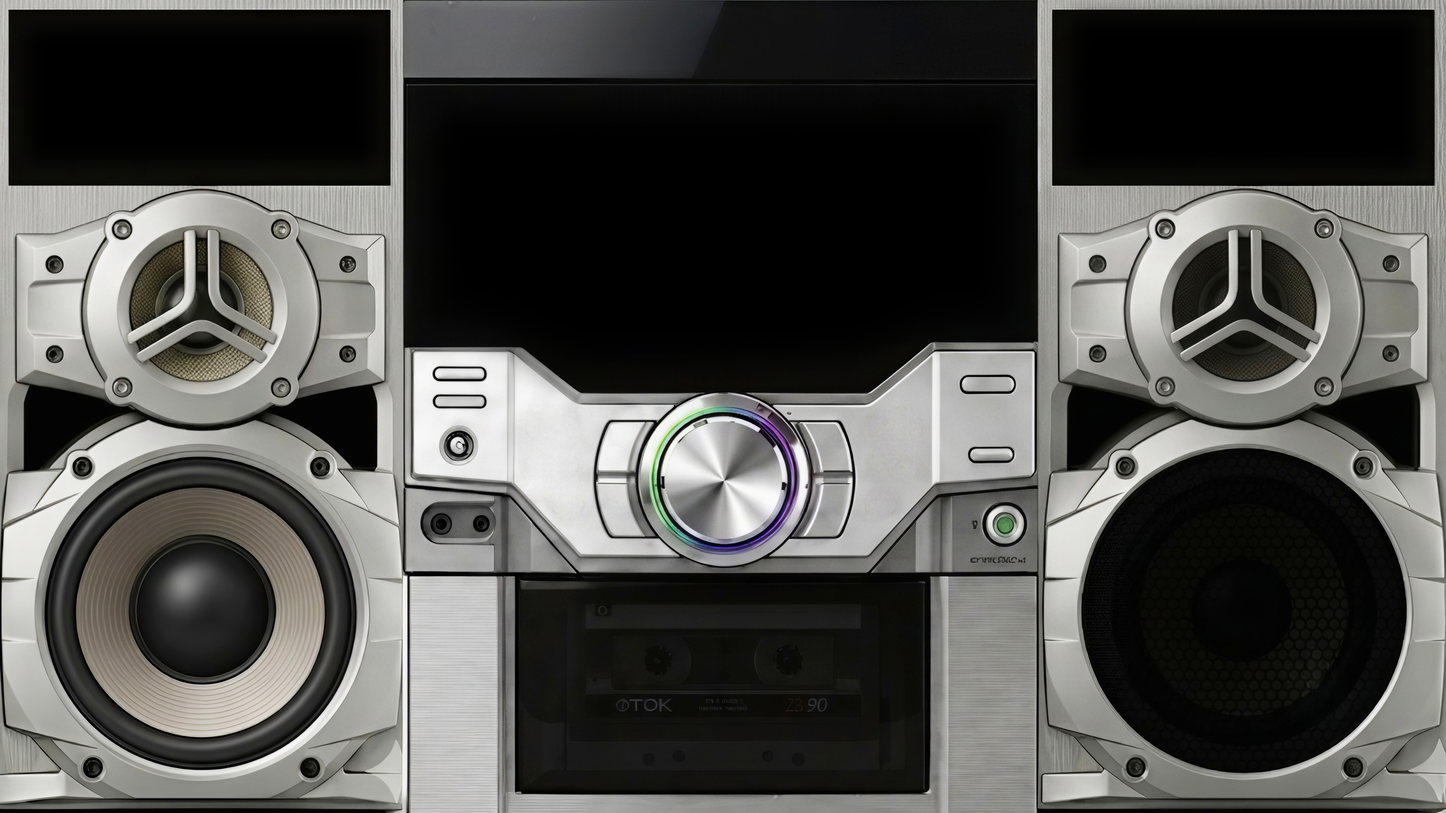
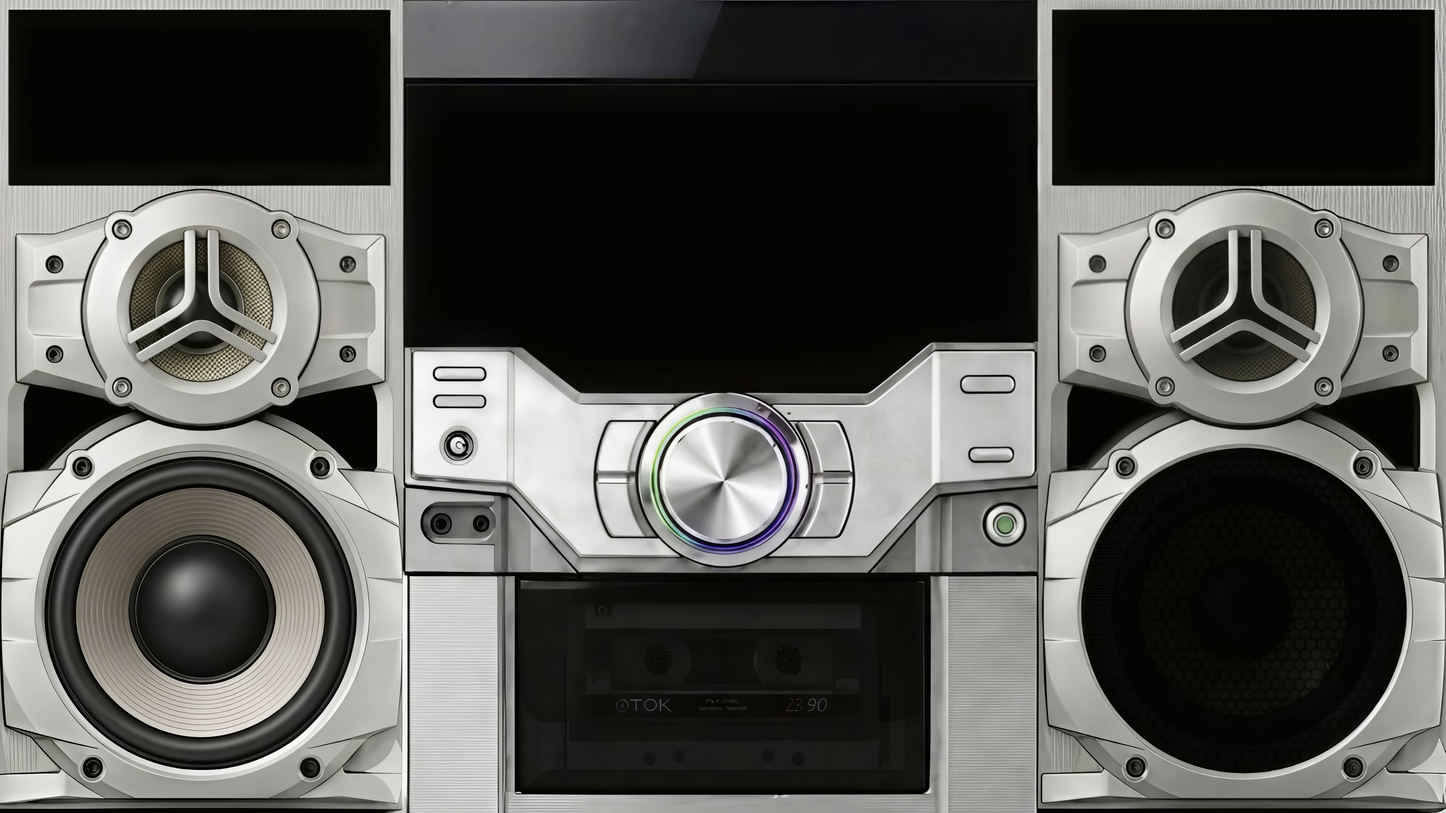
Refine transport buttons with SVG clip-path chassis shapes and directional tactile press

diff --git a/player.html b/player.html
@@ -650,11 +650,17 @@
 
     .transport-btn-area {
       position: absolute;
-      cursor: pointer;
       border-radius: 4px;
       display: flex;
       align-items: center;
       justify-content: center;
+
+      /* Tactile button properties: raised look by default */
+      cursor: pointer !important;
+      user-select: none !important;
+      transition: transform 0.05s ease, box-shadow 0.05s ease, background-color 0.1s ease !important;
+      box-shadow: 0 3px 0 rgba(0, 0, 0, 0.6), inset 0 1px 1px rgba(255, 255, 255, 0.25) !important;
+      border: 1px solid rgba(0, 0, 0, 0.8) !important;
     }
 
     .transport-btn-area span {
@@ -675,11 +681,143 @@
 
     .transport-btn-area:hover {
       background: rgba(255, 255, 255, 0.2);
+      filter: brightness(1.15) !important;
     }
 
-    .transport-btn-area:active,
+    /* Active transport channel indicator highlight */
     .transport-btn-area.is-active {
       background: rgba(0, 255, 65, 0.3);
+      box-shadow: inset 0 2px 5px rgba(0, 0, 0, 0.8), 0 0 5px rgba(50, 205, 50, 0.5) !important;
+      border-color: rgba(50, 205, 50, 0.6) !important;
+    }
+
+    /* Click state: press down displacement + dark inset recessed shadow */
+    .transport-btn-area:active,
+    .transport-btn-area.pressed {
+      transform: translateY(2px) !important;
+      box-shadow: inset 0 3px 6px rgba(0, 0, 0, 0.85),
+                  inset 0 1px 3px rgba(0, 0, 0, 0.9),
+                  0 0 2px rgba(0, 0, 0, 0.4) !important;
+      filter: brightness(0.9) !important;
+      background: rgba(0, 255, 65, 0.3);
+    }
+
+    /* ── Curved Metallic Console Controls (REW / PLAY / FWD / PAUSE) ──
+       Base interactive styles matching the rounded bezel contour around the dial */
+    #btn-rewind, #btn-play, #btn-ff, #btn-stop,
+    .transport-btn-area {
+      cursor: pointer !important;
+      user-select: none !important;
+      transition: transform 0.05s ease, box-shadow 0.05s ease, filter 0.05s ease !important;
+      border: 1px solid rgba(0, 0, 0, 0.5) !important;
+      background: transparent; /* Retains retro chassis image textures */
+    }
+
+    /* 1. TOP LEFT BUTTON: REW (Curved Top-Left Outer Edge) */
+    #btn-rewind {
+      border-top-left-radius: 14px !important;
+      border-top-right-radius: 4px !important;
+      border-bottom-left-radius: 2px !important;
+      border-bottom-right-radius: 6px !important;
+    }
+
+    /* 2. BOTTOM LEFT BUTTON: PLAY (Curved Bottom-Left Outer Edge) */
+    #btn-play {
+      border-top-left-radius: 2px !important;
+      border-top-right-radius: 6px !important;
+      border-bottom-left-radius: 14px !important;
+      border-bottom-right-radius: 4px !important;
+    }
+
+    /* 3. TOP RIGHT BUTTON: FWD (Curved Top-Right Outer Edge) */
+    #btn-ff {
+      border-top-left-radius: 4px !important;
+      border-top-right-radius: 14px !important;
+      border-bottom-left-radius: 6px !important;
+      border-bottom-right-radius: 2px !important;
+    }
+
+    /* 4. BOTTOM RIGHT BUTTON: PAUSE (Curved Bottom-Right Outer Edge) */
+    #btn-stop {
+      border-top-left-radius: 6px !important;
+      border-top-right-radius: 2px !important;
+      border-bottom-left-radius: 4px !important;
+      border-bottom-right-radius: 14px !important;
+    }
+
+    /* HOVER FEEDBACK */
+    #btn-rewind:hover, #btn-play:hover, #btn-ff:hover, #btn-stop:hover {
+      filter: brightness(1.2) drop-shadow(0 0 2px rgba(255, 255, 255, 0.4)) !important;
+    }
+
+    /* CLICK STATE: Physical press depth + inset shadow matching the chassis curve */
+    #btn-rewind:active, #btn-play:active, #btn-ff:active, #btn-stop:active,
+    .transport-btn-area:active {
+      transform: scale(0.97) translateY(1px) !important;
+      box-shadow: inset 2px 2px 6px rgba(0, 0, 0, 0.8),
+                  inset -1px -1px 4px rgba(0, 0, 0, 0.6) !important;
+      filter: brightness(0.85) !important;
+    }
+
+    /* ── Exact Chassis Shapes via clip-path (REW / PLAY / FWD / PAUSE) ── */
+    #btn-rewind, #btn-play, #btn-ff, #btn-stop,
+    .transport-btn-area {
+      cursor: pointer !important;
+      user-select: none !important;
+      border: none !important;
+      background: transparent; /* Retains retro chassis image textures */
+      transition: transform 0.06s cubic-bezier(0.4, 0, 0.2, 1),
+                  filter 0.06s ease !important;
+    }
+
+    /* 1. REW (Top-Left Curved Quadrant — inline SVG radial clip-path) */
+    #btn-rewind {
+      clip-path: url(#clip-rew) !important;
+    }
+
+    /* 2. PLAY (Bottom-Left Curved Quadrant — inline SVG radial clip-path) */
+    #btn-play {
+      clip-path: url(#clip-play) !important;
+    }
+
+    /* 3. FWD (Top-Right Curved Quadrant — inline SVG radial clip-path) */
+    #btn-ff {
+      clip-path: url(#clip-fwd) !important;
+    }
+
+    /* 4. PAUSE (Bottom-Right Curved Quadrant — inline SVG radial clip-path) */
+    #btn-stop {
+      clip-path: url(#clip-pause) !important;
+    }
+
+    /* Interactive Hover State */
+    #btn-rewind:hover, #btn-play:hover, #btn-ff:hover, #btn-stop:hover {
+      filter: brightness(1.3) contrast(1.1) !important;
+    }
+
+    /* Mechanical Click Action: Depresses inward toward dial center with inset shadow */
+    #btn-rewind:active {
+      transform: translate(2px, 2px) scale(0.97) !important;
+      filter: brightness(0.75) contrast(1.3);
+      box-shadow: inset 2px 2px 5px rgba(0, 0, 0, 0.9);
+    }
+
+    #btn-play:active {
+      transform: translate(2px, -2px) scale(0.97) !important;
+      filter: brightness(0.75) contrast(1.3);
+      box-shadow: inset 2px -2px 5px rgba(0, 0, 0, 0.9);
+    }
+
+    #btn-ff:active {
+      transform: translate(-2px, 2px) scale(0.97) !important;
+      filter: brightness(0.75) contrast(1.3);
+      box-shadow: inset -2px 2px 5px rgba(0, 0, 0, 0.9);
+    }
+
+    #btn-stop:active {
+      transform: translate(-2px, -2px) scale(0.97) !important;
+      filter: brightness(0.75) contrast(1.3);
+      box-shadow: inset -2px -2px 5px rgba(0, 0, 0, 0.9);
     }
 
     /* Volume Dial */
@@ -716,31 +854,35 @@
       display: none;
     }
 
-    /* ── Digital Volume Percentage Readout (centered on the dial cap) ── */
+    /* Compact Center Black Box Display */
     .volume-percentage-display {
-      position: absolute;
-      top: 50%;
-      left: 50%;
-      transform: translate(-50%, -50%);
-      width: 66%;
-      padding: 5% 0;
+      position: absolute !important;
+      top: 50% !important;
+      left: 50% !important;
+      transform: translate(-50%, -50%) !important;
+      background: #000000 !important;
+      border-radius: 4px;
+
+      /* Reduced width boundaries */
+      width: auto !important;
+      min-width: 36px !important;
+      max-width: 50px !important;
+      padding: 2px 4px !important;
+
       display: flex;
       align-items: center;
       justify-content: center;
-      background: rgba(0, 0, 0, 0.88);
-      border: 1px solid rgba(255, 255, 255, 0.18);
-      border-radius: 8px;
-      box-shadow: inset 0 0 4px rgba(0, 0, 0, 0.9), 0 0 3px rgba(0, 0, 0, 0.6);
-      pointer-events: none; /* Never block dial drag / wheel events */
-      z-index: 5;
+      pointer-events: none;
+      z-index: 20;
+      box-shadow: inset 0 0 2px rgba(255, 255, 255, 0.2), 0 0 4px rgba(0, 0, 0, 0.8);
     }
 
     #volume-text {
-      font-family: var(--font-display);
-      font-size: 0.75rem;
-      line-height: 1;
-      color: var(--led-green);
-      text-shadow: var(--shadow-glow-green);
+      font-family: 'Courier New', monospace, sans-serif;
+      font-weight: bold;
+      font-size: 13px;
+      color: #ffffff !important; /* Pure white text */
+      text-shadow: 0 0 2px rgba(255, 255, 255, 0.5); /* Subtle white LED glow */
       letter-spacing: 1px;
       pointer-events: none;
     }
@@ -1066,7 +1208,7 @@
       pointer-events: none !important; /* Prevents image from blocking button clicks */
     }
 
-    /* Arrow Navigation Buttons */
+    /* Arrow Navigation Buttons — borderless/frameless (no background box) */
     .nav-arrow {
       position: absolute !important;
       top: 50% !important;
@@ -1075,22 +1217,30 @@
       align-items: center;
       justify-content: center;
       line-height: 1;
-      background: rgba(0, 0, 0, 0.6);
-      color: #ffffff;
-      border: 1px solid rgba(255, 255, 255, 0.3);
-      font-size: 16px;
-      padding: 8px 12px;
+      background: transparent !important;
+      color: #ffffff !important;
+      border: none !important;
+      outline: none !important;
+      box-shadow: none !important;
+      font-size: 24px;
+      padding: 0;
+      width: auto;
+      height: auto;
       cursor: pointer;
+      opacity: 0.8;
       z-index: 999;
       font-family: monospace;
       font-weight: bold;
       user-select: none;
-      transition: background 0.2s;
+      transition: opacity 0.2s ease, transform 0.2s ease;
     }
 
+    /* Subtle hover feedback without showing a container box */
     .nav-arrow:hover {
-      background: #00ff66;
-      color: #000;
+      background: transparent !important;
+      border: none !important;
+      opacity: 1;
+      transform: translateY(-50%) scale(1.15); /* Slightly enlarges arrow on hover */
     }
 
     /* Float Arrows at the left and right edges */
@@ -1979,6 +2129,31 @@
   <script src="js/data-service.js"></script>
   <script src="js/webaudio.js"></script>
   <script type="module" src="js/app.js"></script>
+
+  <!-- Vector Mask Definitions for Curved Console Buttons -->
+  <svg width="0" height="0" style="position: absolute;">
+    <defs>
+      <!-- REW Button Curve -->
+      <clipPath id="clip-rew" clipPathUnits="objectBoundingBox">
+        <path d="M 0.1,0.05 C 0.5,-0.02 0.9,0.1 0.98,0.2 L 0.8,0.95 C 0.5,0.95 0.2,0.92 0,0.85 Z" />
+      </clipPath>
+
+      <!-- PLAY Button Curve -->
+      <clipPath id="clip-play" clipPathUnits="objectBoundingBox">
+        <path d="M 0,0.15 C 0.2,0.08 0.5,0.05 0.8,0.05 L 0.98,0.8 C 0.9,0.9 0.5,1.02 0.1,0.95 Z" />
+      </clipPath>
+
+      <!-- FWD Button Curve -->
+      <clipPath id="clip-fwd" clipPathUnits="objectBoundingBox">
+        <path d="M 0.02,0.2 C 0.1,0.1 0.5,-0.02 0.9,0.05 L 1,0.85 C 0.8,0.92 0.5,0.95 0.2,0.95 Z" />
+      </clipPath>
+
+      <!-- PAUSE Button Curve -->
+      <clipPath id="clip-pause" clipPathUnits="objectBoundingBox">
+        <path d="M 0.2,0.05 C 0.5,0.05 0.8,0.08 1,0.15 L 0.9,0.95 C 0.5,1.02 0.1,0.9 0.02,0.8 Z" />
+      </clipPath>
+    </defs>
+  </svg>
 
 </body>
 

diff --git a/js/app.js b/js/app.js
@@ -256,6 +256,16 @@ class KeyboardFantasiaApp {
     const stopBtn = document.getElementById('btn-stop');
     const ffBtn = document.getElementById('btn-ff');
 
+    // Tactile press feedback: toggle .pressed during the press so the
+    // key visibly displaces into the chassis (touch-safe, not only :active)
+    [rewindBtn, playBtn, stopBtn, ffBtn].forEach((btn) => {
+      if (!btn) return;
+      btn.addEventListener('pointerdown', () => btn.classList.add('pressed'));
+      btn.addEventListener('pointerup', () => btn.classList.remove('pressed'));
+      btn.addEventListener('pointerleave', () => btn.classList.remove('pressed'));
+      btn.addEventListener('pointercancel', () => btn.classList.remove('pressed'));
+    });
+
     // Play
     playBtn?.addEventListener('click', () => {
       if (state.get('currentTrack')) {
